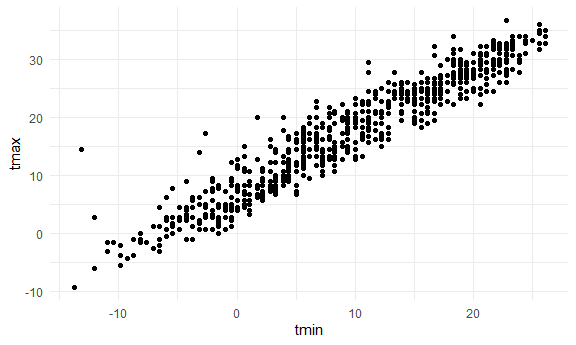
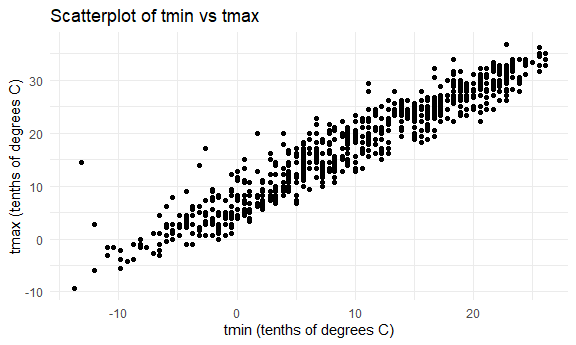
cleaned up plot sin q2 and q3, cleaned up interpretations for q2 and q3

diff --git a/p8105_hw6_kw3180.md b/p8105_hw6_kw3180.md
@@ -21,7 +21,10 @@ What do the distribution of variables prcp and tmin look like?
 ``` r
 weather_df |> 
   ggplot(aes(x = tmin, y = tmax)) + 
-  geom_point() 
+  geom_point() +
+  labs(title = "Scatterplot of tmin vs tmax", 
+       x = "tmin (tenths of degrees C)", 
+       y = "tmax (tenths of degrees C)")
 ```
 
 <img src="p8105_hw6_kw3180_files/figure-gfm/unnamed-chunk-3-1.png" width="90%" />
@@ -29,10 +32,17 @@ weather_df |>
 ``` r
 weather_df |> 
   ggplot(aes(x = prcp, y = tmax)) + 
-  geom_point() 
+  geom_point() +
+  labs(title = "Scatterplot of prcp vs tmax", 
+       x = "prcp (tenths of mm)", 
+       y = "tmax (tenths of degrees C)")
 ```
 
 <img src="p8105_hw6_kw3180_files/figure-gfm/unnamed-chunk-3-2.png" width="90%" />
+\* Because prcp doesn’t have a linear relationship with tmax, the
+assumptions for linear regression are violated. We can bootstrap to
+estimate using empirical distribution without relying on these
+parametric assumptions.
 
 ### Let’s do bootstrapping
 
@@ -151,6 +161,10 @@ bootstrap_results_merged |>
     ##         <dbl>       <dbl>         <dbl>         <dbl>
     ## 1       0.894       0.928        -5616.         4587.
 
+- We are 95% confident that the true r^2 value lies between 0.89 and
+  0.92. We are 95% confident that the true beta1/beta2 value lies
+  between -5616.45 and 4586.92.
+
 # Problem 3
 
 ``` r
@@ -258,8 +272,8 @@ all important and significant factors.” Thus, I will propose a model
 with `baby_sex`, `parity`, `mom_smoke_per_day`, `mom_height_in`,
 `mom_wt_gain_lb`, and `mother_race` as predictors to birthweight.
 
-[The determinants of birth
-weight](https://pubmed.ncbi.nlm.nih.gov/7114129/)
+[The determinants of birth weight
+paper](https://pubmed.ncbi.nlm.nih.gov/7114129/)
 
 ### Explore data
 
@@ -365,14 +379,29 @@ bwt_df |>
 
 <img src="p8105_hw6_kw3180_files/figure-gfm/unnamed-chunk-11-2.png" width="90%" />
 
+``` r
+bwt_df |> 
+  modelr::add_residuals(hypothesis_fit) |> 
+  ggplot(aes(sample = resid)) +
+  stat_qq() +
+  stat_qq_line(color = "red", linetype = "dashed") +
+  labs(
+    title = "QQ Plot of Residuals for Hypothesis Model",
+    x = "Theoretical Quantiles",
+    y = "Sample Quantiles"
+  )
+```
+
+<img src="p8105_hw6_kw3180_files/figure-gfm/unnamed-chunk-11-3.png" width="90%" />
+
 - The first plot shows that the residuals for the hypothesized model is
   generally normally distributed, symmetric, and centered at 0. There is
-  a little skewing on the left-hand size.
-- The “Residuals vs Fitted Values for Hypothesis Model” is the
-  diagnostic for linearity and homoscedasticity. The roughly oval and
-  symmetric shape reflects that there’s more variability in residuals at
-  certain fitted values (often at higher birthweights). The model’s
-  linearity assumption holds, as residuals don’t show a clear trend.
+  noticeable skewing on the left-hand side.
+- The “Residuals vs Fitted Values for Hypothesis Model” is used to
+  assess linearity and homoscedasticity. The roughly oval shape centered
+  around 0 indicates the model is mostly linear, but there is some
+  non-constant variance (heteroskedasticity), with slightly more spread
+  in residuals at lower fitted birthweights..
 
 ### Train/test data for CV
 
@@ -399,6 +428,8 @@ cv_df <- cv_df |>
   )
 ```
 
+### Plot distribution of RMSE
+
 ``` r
 cv_df |> 
   select(starts_with("rmse")) |> 
@@ -408,8 +439,30 @@ cv_df |>
     values_to = "rmse",
     names_prefix = "rmse_"
   ) |> 
+  mutate(model = factor(model, 
+                        levels = c("fit_interactions", "fit", "hypothesis_fit"))
+  ) |> 
   ggplot(aes(x = model, y = rmse)) + 
-  geom_violin()
+  geom_violin() +
+  labs(x = "Model", 
+       y = "RMSE", 
+       title = "RMSE Across Models")
 ```
 
 <img src="p8105_hw6_kw3180_files/figure-gfm/unnamed-chunk-13-1.png" width="90%" />
+
+- The RMSEs suggest that the `fit_interactions` model performs better
+  than both the `fit` and `hypothesis_fit` models. The hypothesized
+  model, which included predictors `baby_sex`, `mom_smoke_per_day`,
+  `mom_height_in`, `mom_wt_gain_lb`, and `mother_race`, had the largest
+  RMSE, likely because it lacks key baby-specific variables. This model
+  emphasizes maternal characteristics and their impact on birthweight,
+  rather than direct measurements of the baby. The focus on the mother,
+  rather than the baby (or dyad, for that matter), makes the model more
+  susceptible to prediction error. In contrast, the `fit` model includes
+  gestational age and baby’s length, enabling it to capture more
+  variance (variables are direct indicators of the baby’s size). The
+  lower RMSE for the `fit_interactions` model indicates that including
+  interactions between baby-specific measures allows the model to
+  account for joint effects on birthweight, improving the model’s
+  predictions.
